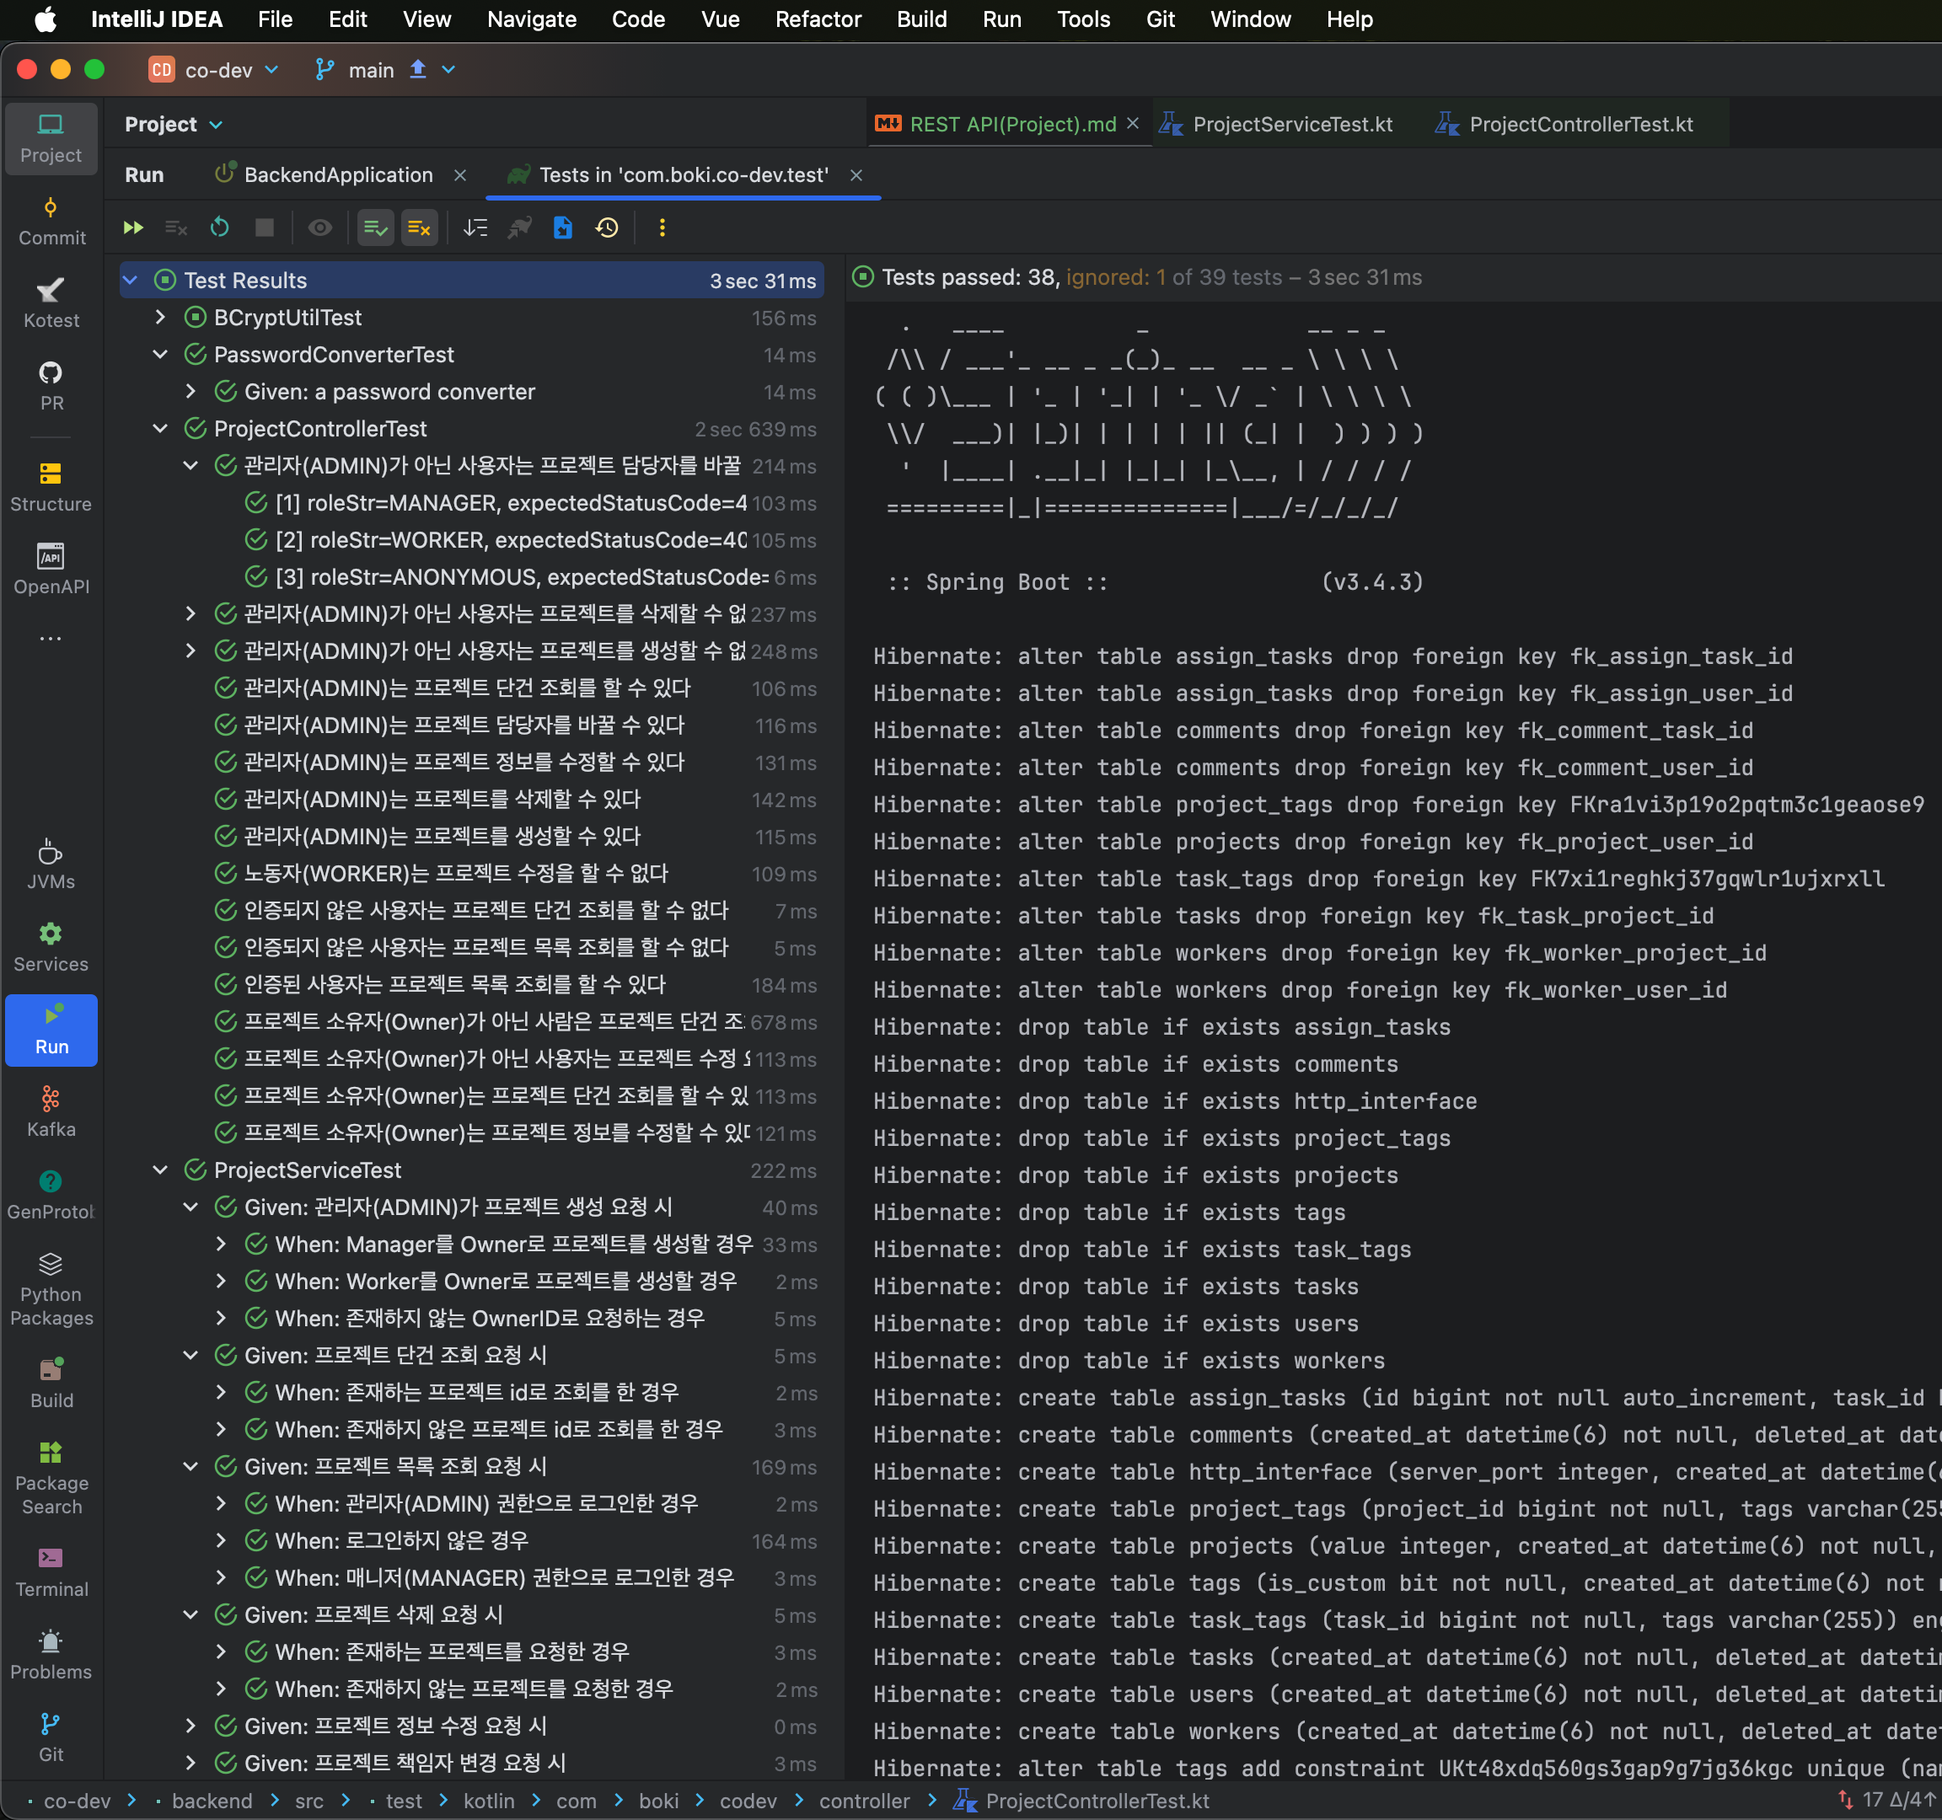
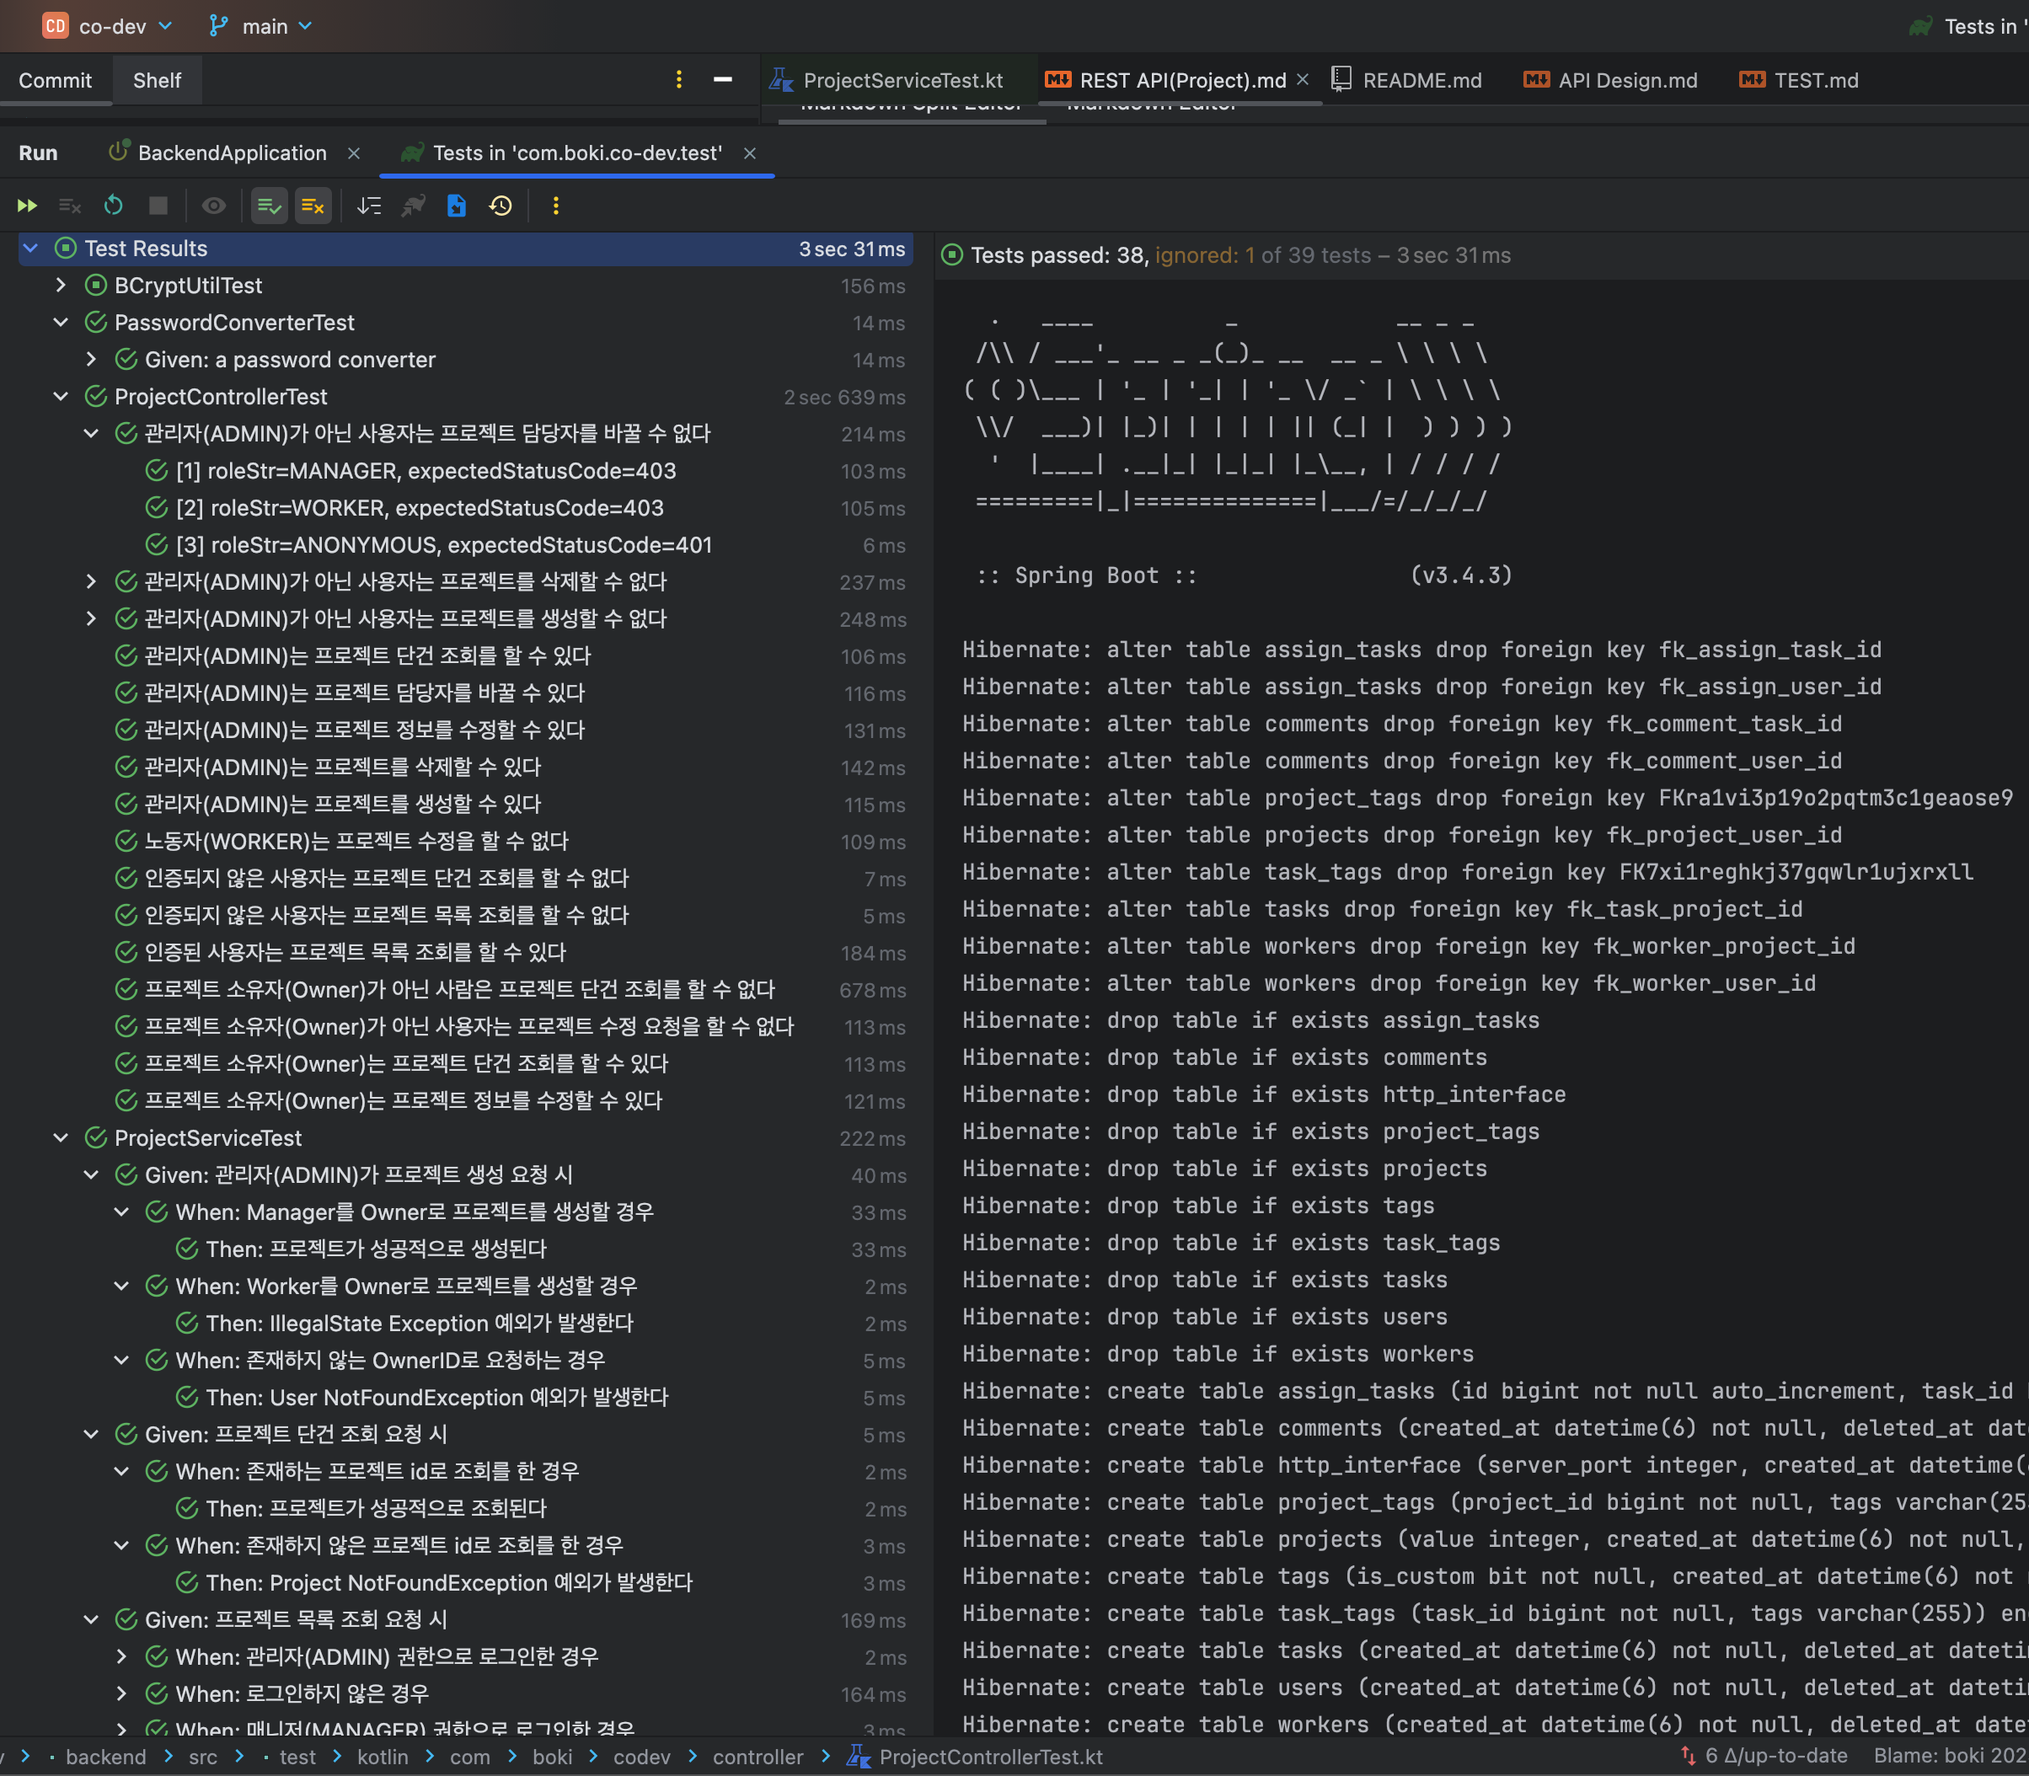
[미션5] 삽입, 수정, 삭제 REST API 만들기 markdown, 이미지 변경

Changed region(s): [[0.0, 0.0, 1.0, 1.0]]

diff --git a/backend/adr/TEST.md b/backend/adr/TEST.md
@@ -1,6 +1,8 @@
 # Test Image & Code
 ### Usage: RestClient, Mockk, Kotest, Fixture-Monkey(Naver)
-- imgs
-- <img src="../img/co-dev_ALL_TESTS.png" alt="ALL_TEST image">
-  <img src="../img/co-dev_BUSINESS_TEST.png" alt="BUSINESS_TEST image">
-  <img src="../img/co-dev_PRESENTATION_TEST.png" alt="PRESENTATION_TEST image">
+#### - Images
+<img src="../img/co-dev_ALL_TESTS.png" alt="ALL_TEST image">
+
+#### - Test Code
+<img src="../img/co-dev_BUSINESS_TEST.png" alt="BUSINESS_TEST image">
+<img src="../img/co-dev_PRESENTATION_TEST.png" alt="PRESENTATION_TEST image">
